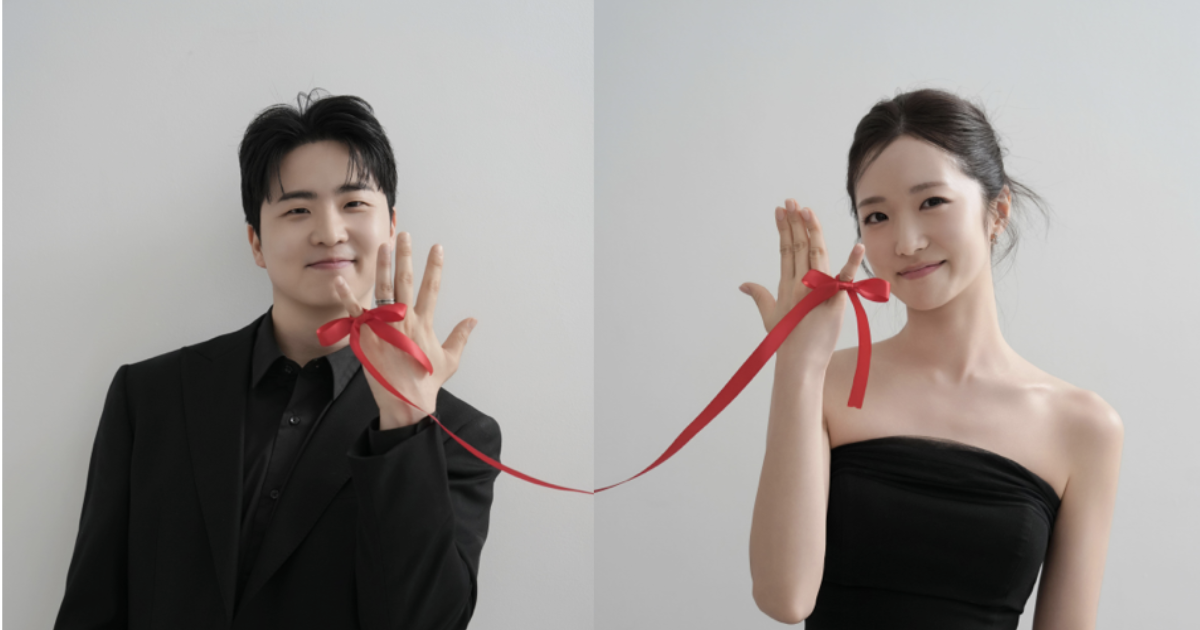
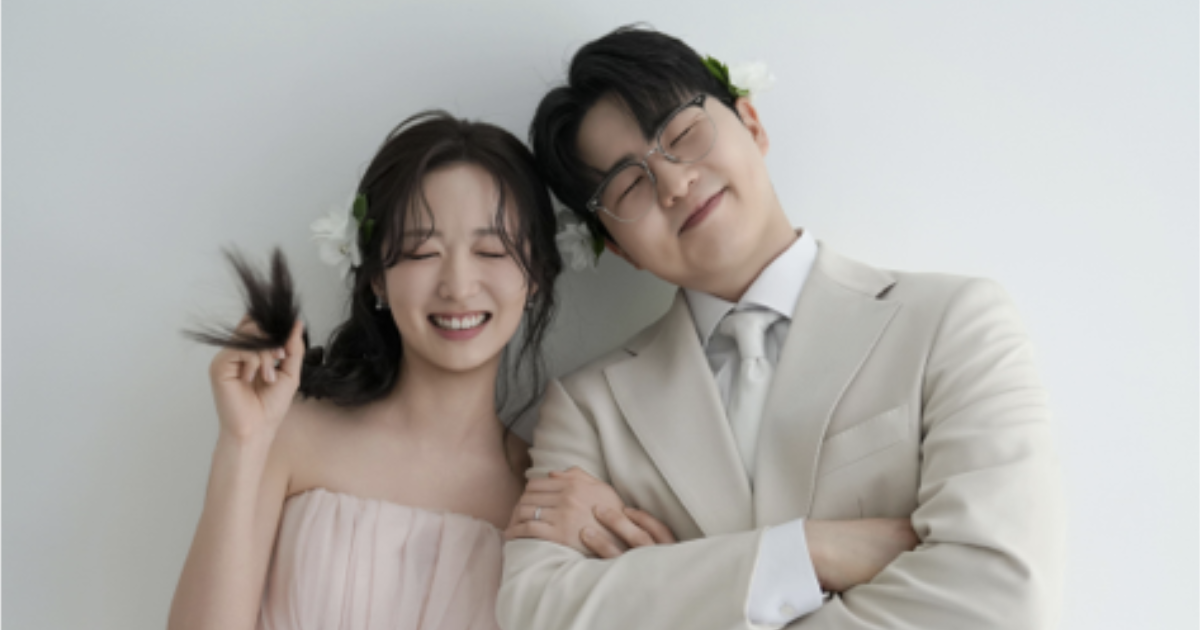
최종본6

diff --git a/index.html b/index.html
@@ -22,6 +22,12 @@
     <meta property="og:url" content="https://Bang-mung-e.github.io/wedding_card_2/">
     <!-- ===================================================================== -->
     <link rel="shortcut icon" href="https://Bang-mung-e.github.io/wedding_card_2/favicon.png" type="image/png">
+    
+  
+    <!-- 카카오 JavaScript SDK -->
+    <script src="https://tapi.kakao.com/v2/maps/sdk.js?appkey=2c37634e027cd8c31374ebd6fd5590fa"></script>
+    <script src="https://developers.kakao.com/sdk/js/kakao.min.js"></script>
+
     <style>
 
                 /* 우측 상단 음악 컨트롤 버튼 */
@@ -1724,6 +1730,50 @@
     document.addEventListener('click', handleFirstInteraction);
     document.addEventListener('touchstart', handleFirstInteraction);
 </script>
+    
+<div style="text-align: center; margin: 40px 0;">
+  <button id="kakaotalk-sharing-btn" style="
+    padding: 14px 28px;
+    background-color: #FEE500;
+    border: none;
+    border-radius: 8px;
+    font-weight: bold;
+    font-size: 15px;
+    cursor: pointer;
+    box-shadow: 0 2px 4px rgba(0,0,0,0.1); /* 약한 그림자 효과로 완성도 UP */
+  ">
+    카카오톡으로 초대장 공유하기
+  </button>
+</div>
+
+    <script>
+    // 카카오 SDK 초기화 (위에서 복사한 JavaScript 키 입력)
+    Kakao.init('2c37634e027cd8c31374ebd6fd5590fa');
+
+    // 카카오톡 공유 버튼 이벤트 연결
+    Kakao.Share.createDefaultButton({
+        container: '#kakaotalk-sharing-btn',
+        objectType: 'feed',
+        content: {
+        title: '방진수, 고지원 결혼합니다.',
+        description: '2026년 10월 18일 일요일 오후 13시30분',
+        imageUrl: 'https://Bang-mung-e.github.io/wedding_card_2/og-image.jpg', // 카드 상단 대표 이미지
+        link: {
+            mobileWebUrl: 'https://Bang-mung-e.github.io/wedding_card_2/',
+            webUrl: 'https://Bang-mung-e.github.io/wedding_card_2/',
+        },
+        },
+        buttons: [
+        {
+            title: '청첩장 보러가기', // 버튼에 들어갈 문구
+            link: {
+            mobileWebUrl: 'https://Bang-mung-e.github.io/wedding_card_2/',
+            webUrl: 'https://Bang-mung-e.github.io/wedding_card_2/',
+            },
+        },
+        ],
+    });
+    </script>
 
 </body>
 </html>
